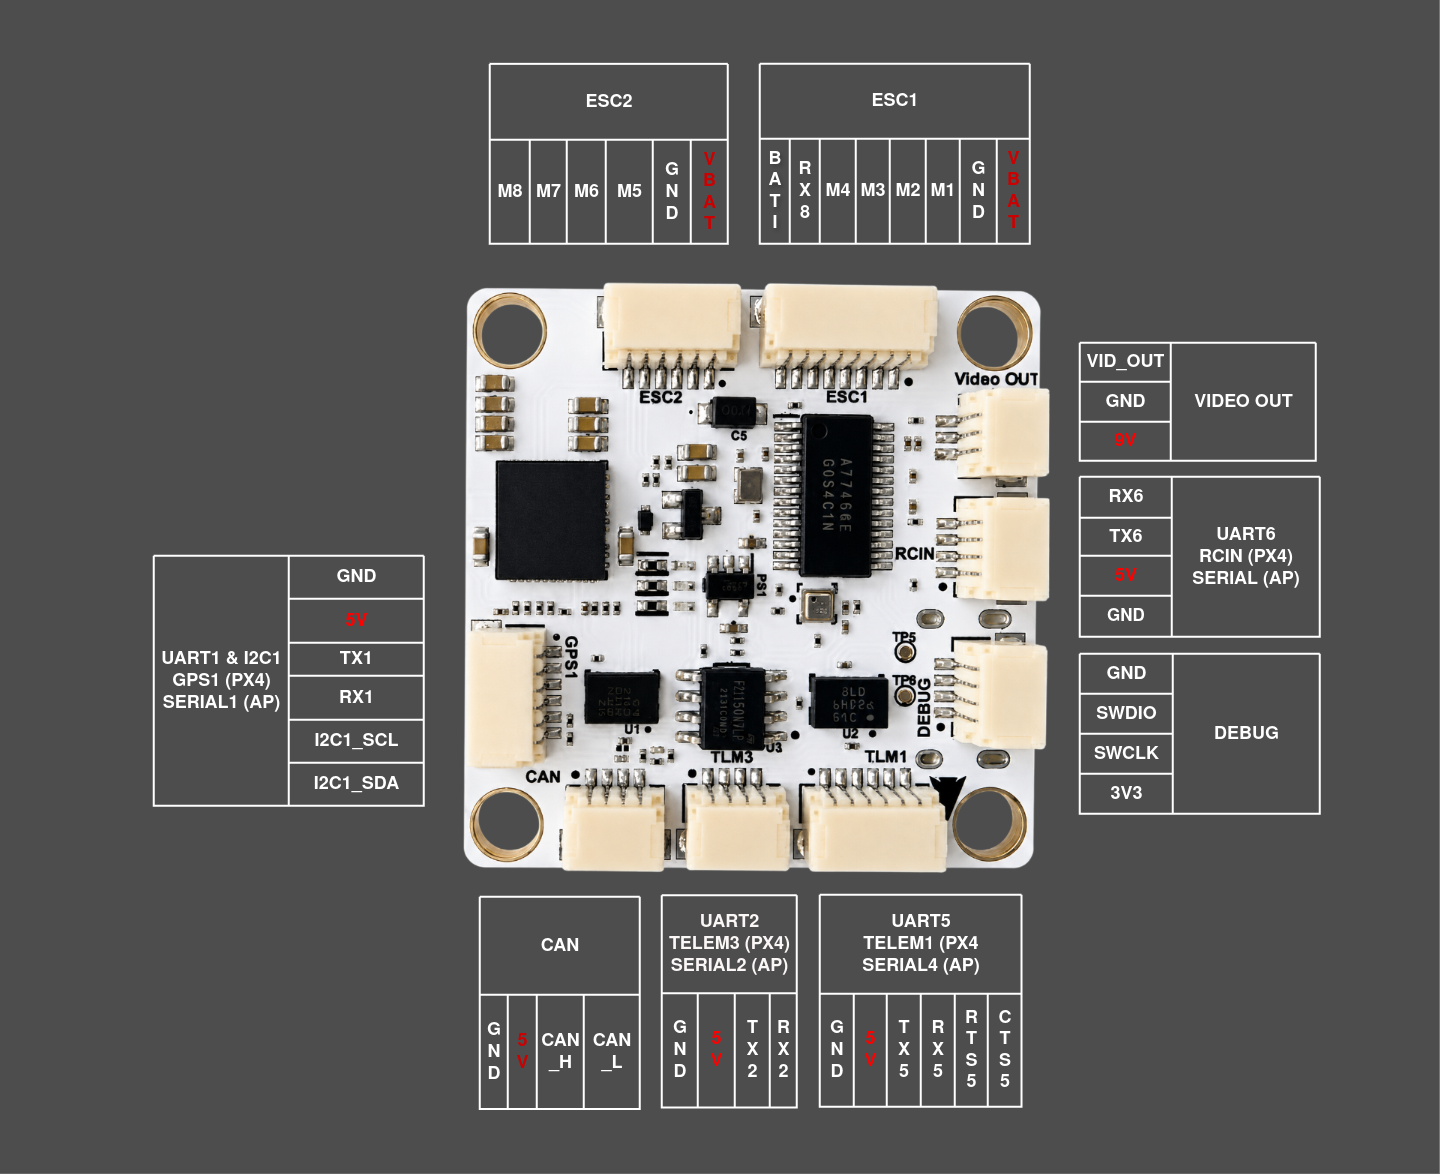
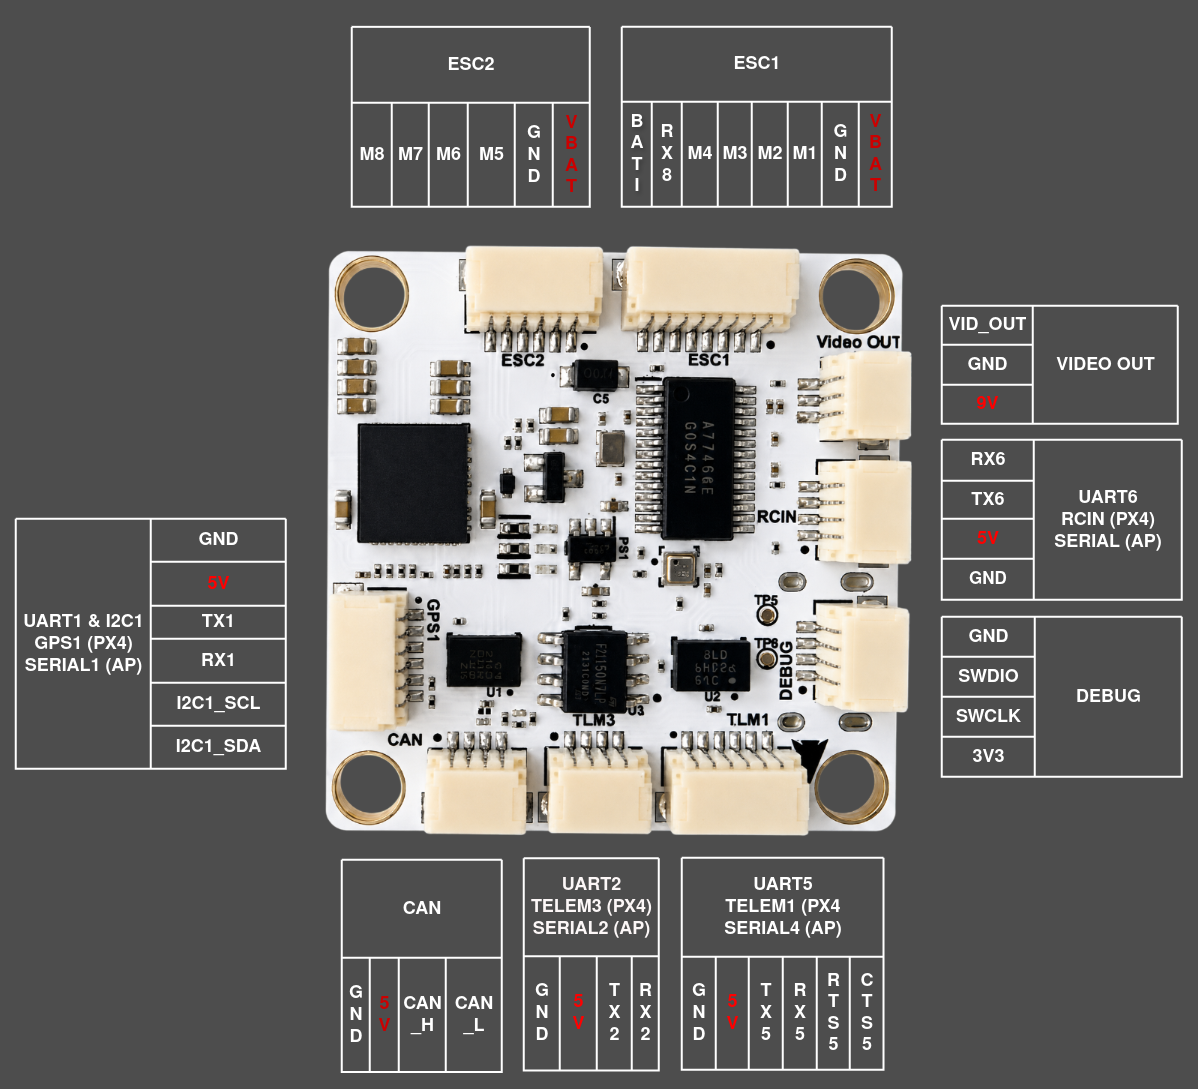
docs(docs): shrink images, use markdown image format, prettier

diff --git a/docs/en/flight_controller/zenfc_h743.md b/docs/en/flight_controller/zenfc_h743.md
@@ -1,7 +1,7 @@
 # ZenFC H743
 
 <!-- TODO: set to the PX4 release this target first merges into -->
-<Badge type="tip" text="PX4 v1.18" />
+<Badge type="tip" text="PX4 main (v2.0)" />
 
 ::: warning
 PX4 does not manufacture this (or any) autopilot.
@@ -11,11 +11,7 @@ Contact the [manufacturer](https://www.zenithratech.com/contact) for hardware su
 The _ZenFC H743_ is a flight controller designed by Zenithra Tech.
 It is built around the STM32H743 processor with dual Bosch BMI088 IMUs for sensor redundancy, an onboard barometer, and an integrated OSD.
 
-
-<p align="center">
-  <img src="../../assets/flight_controller/zenfc_h743/zenfc_h743.png" alt="ZenFC H743" width="600"/>
-</p>
-
+![ZenFC H743 Flight Controller](../../assets/flight_controller/zenfc_h743/zenfc_h743.png)
 
 ::: info
 This flight controller is [manufacturer supported](../flight_controller/autopilot_manufacturer_supported.md).
@@ -47,16 +43,11 @@ This flight controller is [manufacturer supported](../flight_controller/autopilo
 
 ## Dimensions
 
-
 - **Mounting:** 30.5 mm x 30.5 mm /Φ4mm hole
 - **Dimensions:** 35mm x 35mm x 8mm
 - **Weight:** 9g
 
-
-<p align="center">
-  <img src="../../assets/flight_controller/zenfc_h743/zenfc_h743_dimensions.png" alt="ZenFC H743 Dimensions" width="700"/>
-</p>
-
+![ZenFC H743 Dimensions](../../assets/flight_controller/zenfc_h743/zenfc_h743_dimensions.png)
 
 ## Where to Buy
 
@@ -64,13 +55,9 @@ Order from [Zenithra Tech](https://www.zenithratech.com/solutions/components).
 
 ## Flight Controller Layout
 
-<p align="center">
-  <img src="../../assets/flight_controller/zenfc_h743/zenfc_h743_layout_front.png" alt="ZenFC H743 Layout Front" width="450"/>
-</p>
+![ZenFC H743 Layout Front](../../assets/flight_controller/zenfc_h743/zenfc_h743_layout_front.png)
 
-<p align="center">
-  <img src="../../assets/flight_controller/zenfc_h743/zenfc_h743_layout_back.png" alt="ZenFC H743 Layout Back" width="450"/>
-</p>
+![ZenFC H743 Layout Back](../../assets/flight_controller/zenfc_h743/zenfc_h743_layout_back.png)
 
 ## Serial Port Mapping
 
@@ -84,20 +71,15 @@ Order from [Zenithra Tech](https://www.zenithratech.com/solutions/components).
 | UART7  | /dev/ttyS5 | TEL2     |
 | UART8  | /dev/ttyS6 | URT6     |
 
-
 ## Connectors & Pinout
 
 Board uses JST SH connectors for all interfaces.
 
-<p align="center">
-  <img src="../../assets/flight_controller/zenfc_h743/zenfc_h743_pinouts_front.png" alt="ZenFC H743 Pinouts Front" width="600"/>
-</p>
+![ZenFC H743 Pinouts Front](../../assets/flight_controller/zenfc_h743/zenfc_h743_pinouts_front.png)
 
-<p align="center">
-  <img src="../../assets/flight_controller/zenfc_h743/zenfc_h743_pinouts_back.png" alt="ZenFC H743 Pinouts Back" width="600"/>
-</p>
+![ZenFC H743 Pinouts Back](../../assets/flight_controller/zenfc_h743/zenfc_h743_pinouts_back.png)
 
-**Note** - SBus pin on DJI O3/O4 port is internally connected to RX6 (RCIN).
+**Note** - SBus pin on DJI O3/O4 port is internally connected to RX6 (`RCIN`).
 
 ### PWM Outputs
 
@@ -114,8 +96,8 @@ Note: All outputs support PWM and Dshot protocol.
 In addition to the [basic configuration](../config/index.md), the following
 parameter is important:
 
-| Parameter                                                            | Setting                                                                                                  |
-| --------------------------------------------------------------------- | --------------------------------------------------------------------------------------------------------- |
+| Parameter                                                            | Setting                                                                                                    |
+| -------------------------------------------------------------------- | ---------------------------------------------------------------------------------------------------------- |
 | [SYS_HAS_MAG](../advanced_config/parameter_reference.md#SYS_HAS_MAG) | Disabled by default since the board has no internal magnetometer. Enable it if you attach an external mag. |
 
 ## Building Firmware
@@ -141,4 +123,4 @@ The firmware can be installed in any of the normal ways:
 
 ## Further info
 
-- [Zenithra Tech.](https://www.zenithratech.com/contact)
+- [Zenithra Tech](https://www.zenithratech.com/contact)
